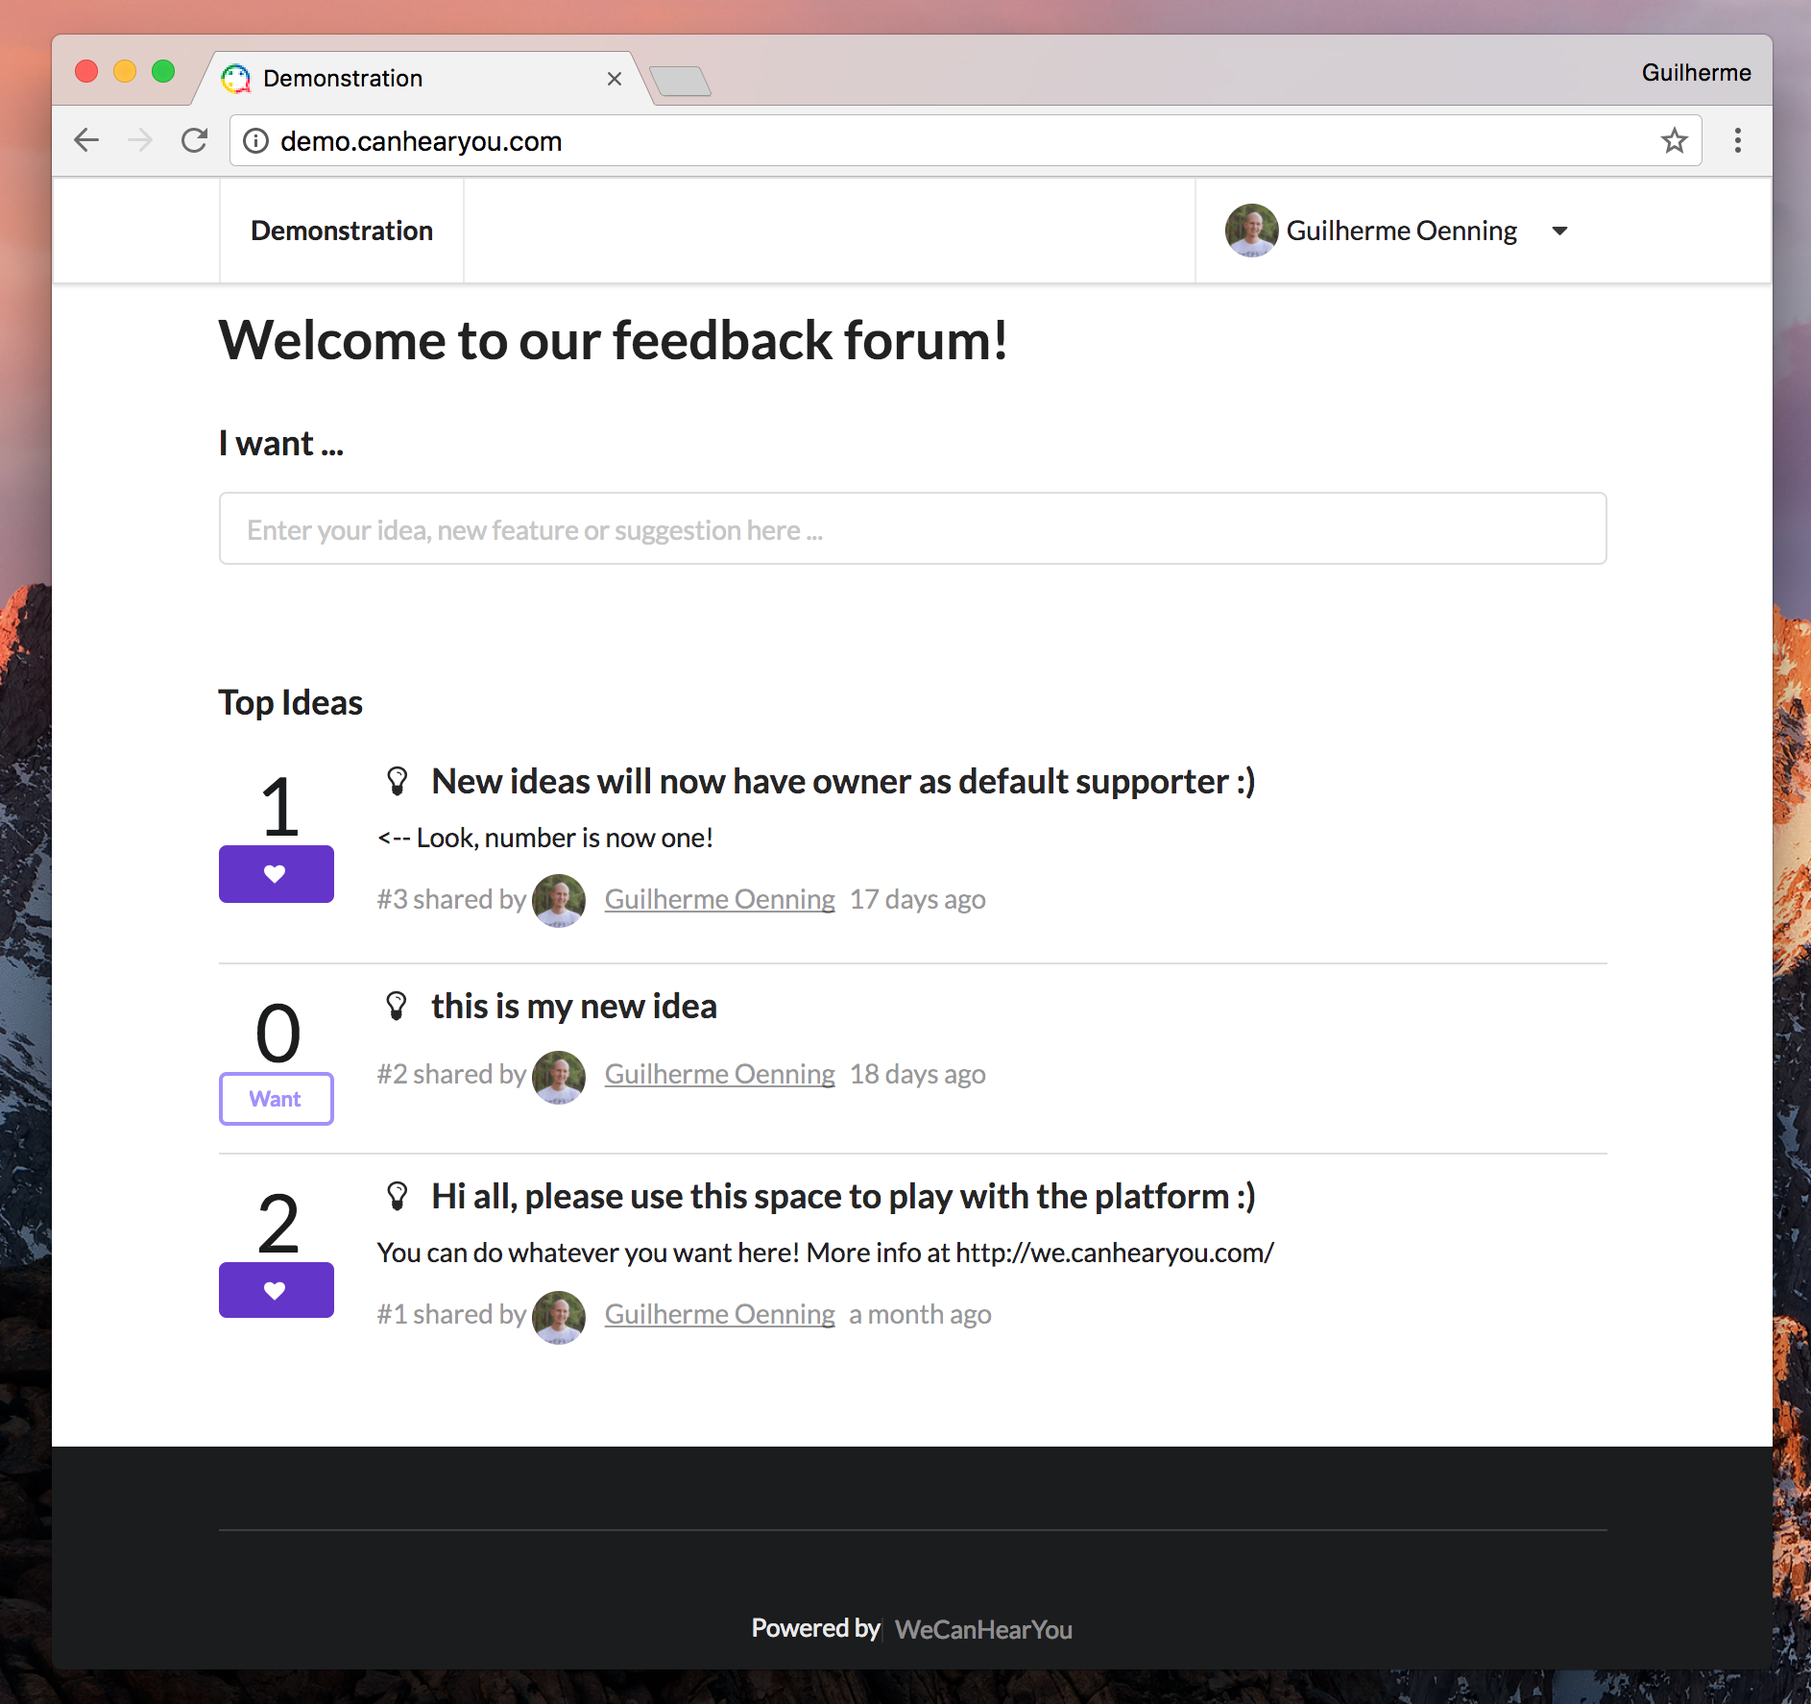
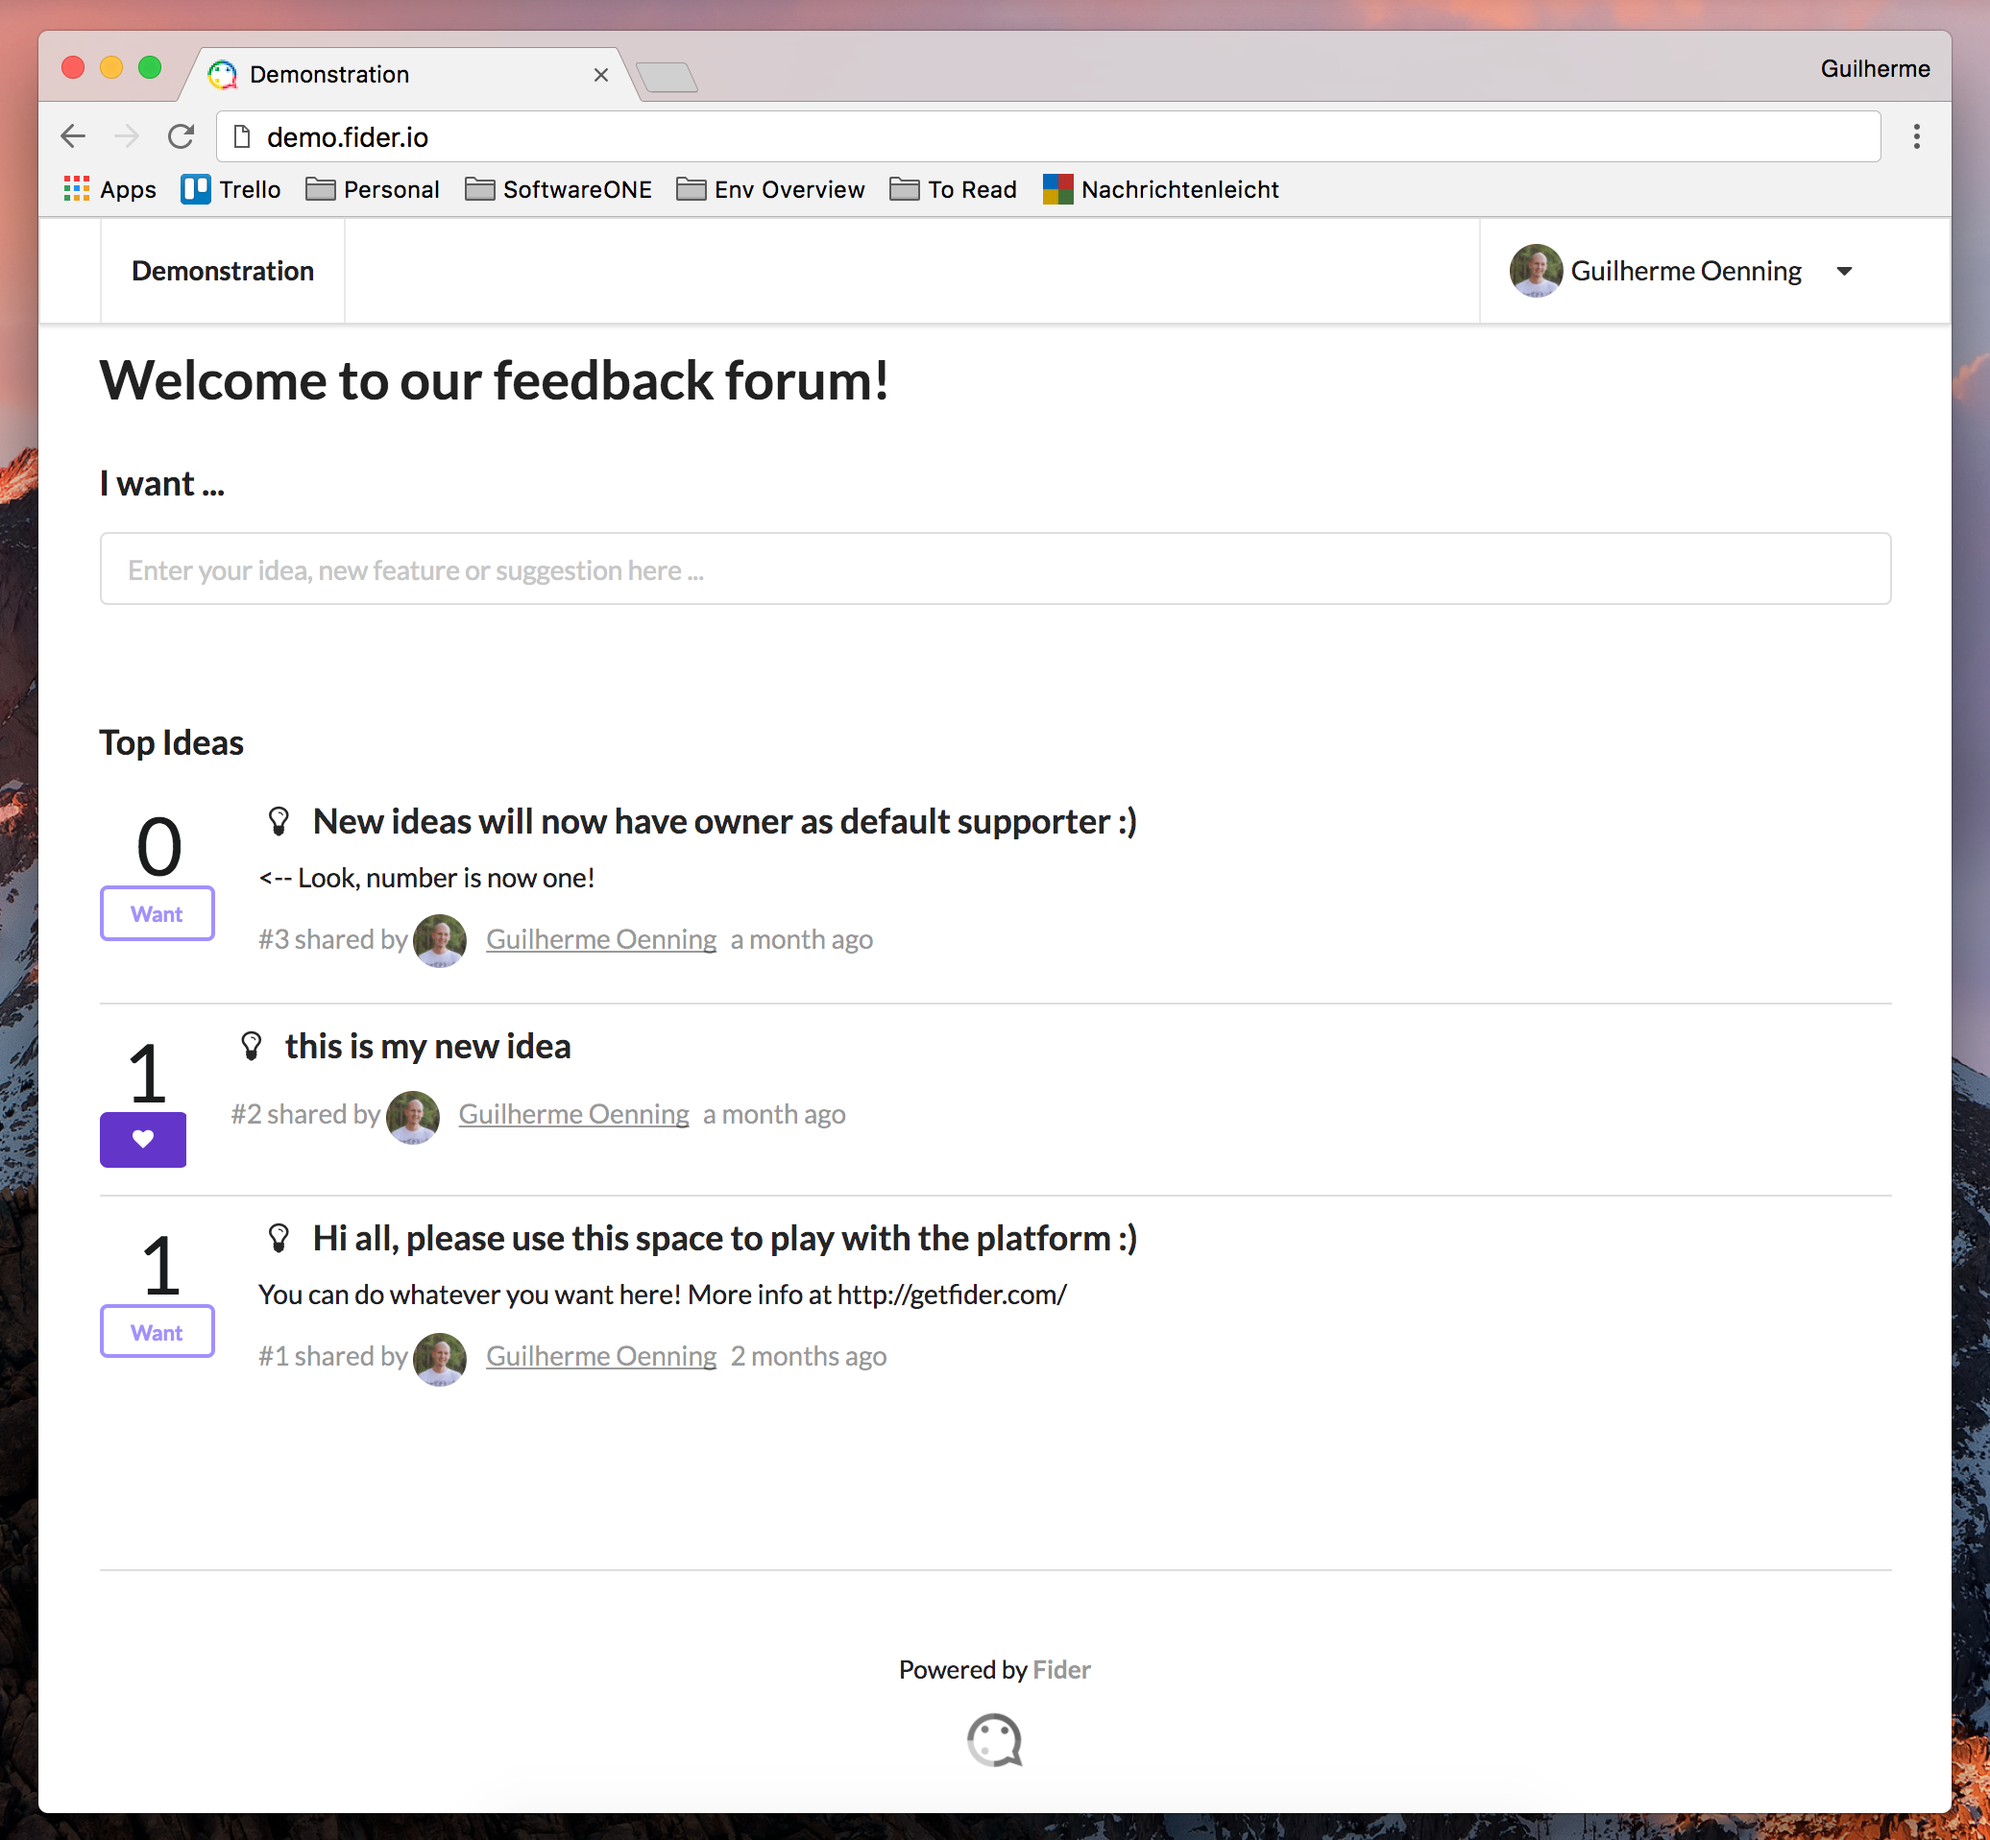
update home

diff --git a/index.html b/index.html
@@ -94,7 +94,7 @@
         <div class="seven wide right floated column">
           <h3 class="ui header">We are on GitHub</h3>
           <p>Built with the latest and greatest Go, React and TypeScript, the full source code is availalbe on GitHub.</p>
-          <p><a target="blank" href="https://github.com/WeCanHearYou/wechy" class="ui huge grey button"><i class="github icon"></i>Visit WeCanHearYou/wechy</a></p>
+          <p><a target="blank" href="https://github.com/getfider/fider" class="ui huge grey button"><i class="github icon"></i>Visit getfider/fider</a></p>
         </div>
       </div>
     </div>
